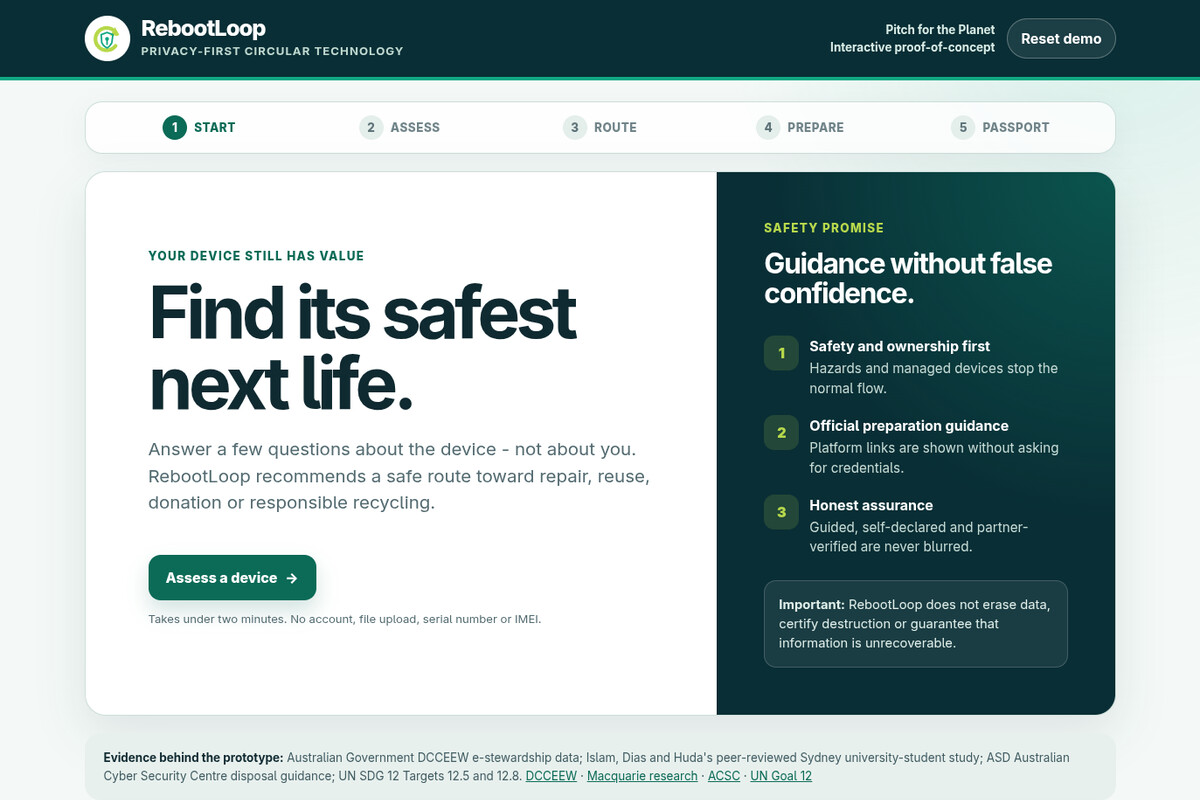
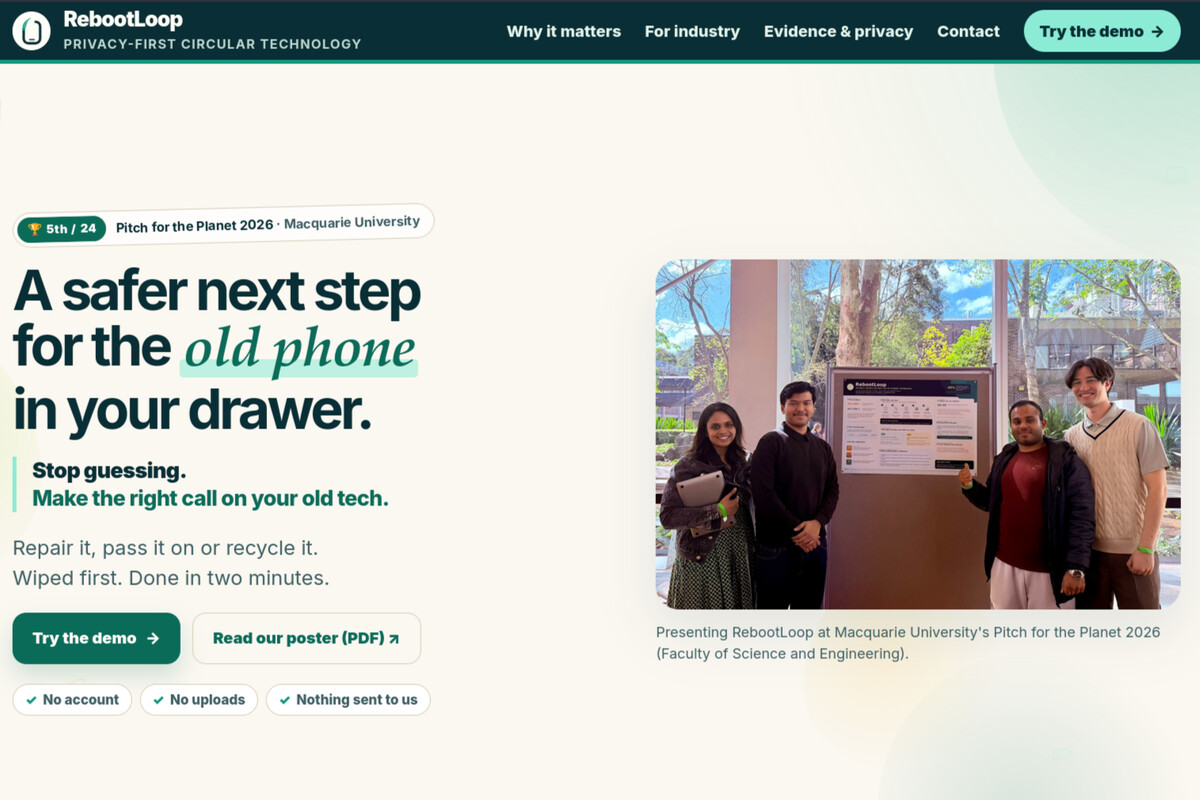
Update RebootLoop thumbnail to new site hero
Reflects the current RebootLoop site, which now carries its own
Pitch for the Planet badge and team photo.

diff --git a/index.html b/index.html
@@ -1401,7 +1401,7 @@
 					<a class="link magnetic" href="https://github.com/RebootLoopMQ/RebootLoop" target="_blank" rel="noopener">View source <span class="arrow">→</span></a>
 				</div>
 			</div>
-			<div class="project-img-wrap"><button type="button" class="rl-gif-trigger" id="rlGifTrigger" aria-haspopup="dialog" aria-label="View the full RebootLoop walkthrough GIF"><img class="ui-screenshot" src="/assets/images/rebootloop-poster.jpg" alt="RebootLoop walkthrough: assessing a device, its recommended route, and the resulting device passport"></button></div>
+			<div class="project-img-wrap"><button type="button" class="rl-gif-trigger" id="rlGifTrigger" aria-haspopup="dialog" aria-label="View the full RebootLoop walkthrough GIF"><img class="ui-screenshot" src="/assets/images/rebootloop-poster.jpg?v=20261009" alt="RebootLoop homepage: &quot;A safer next step for the old phone in your drawer,&quot; with the Pitch for the Planet 5th/24 badge and the team's presentation photo"></button></div>
 		</div>
 
 		<div class="project-block reverse reveal">
